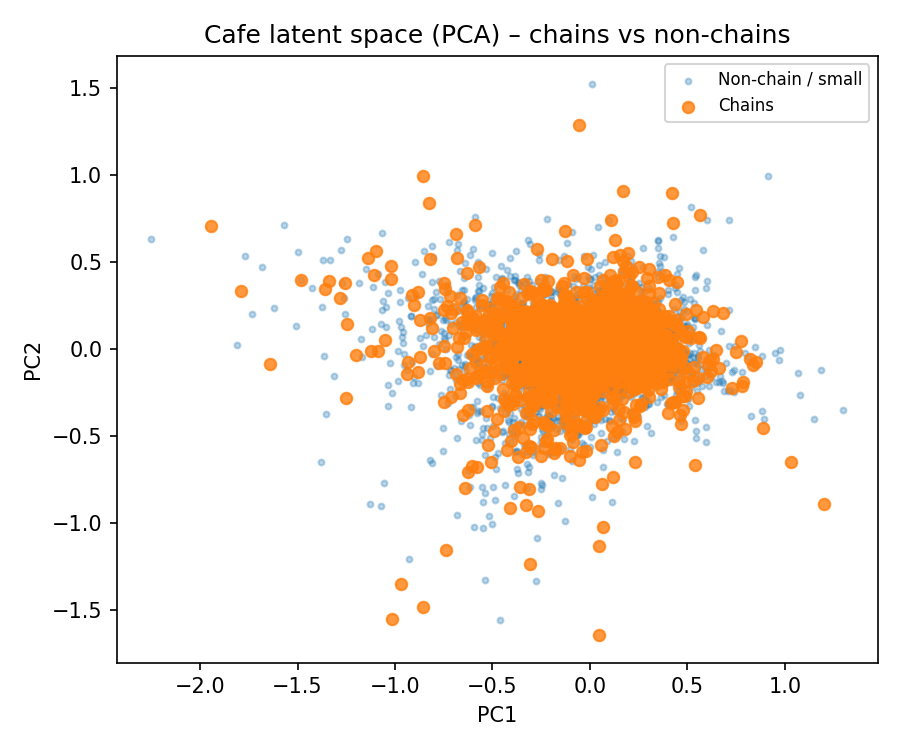
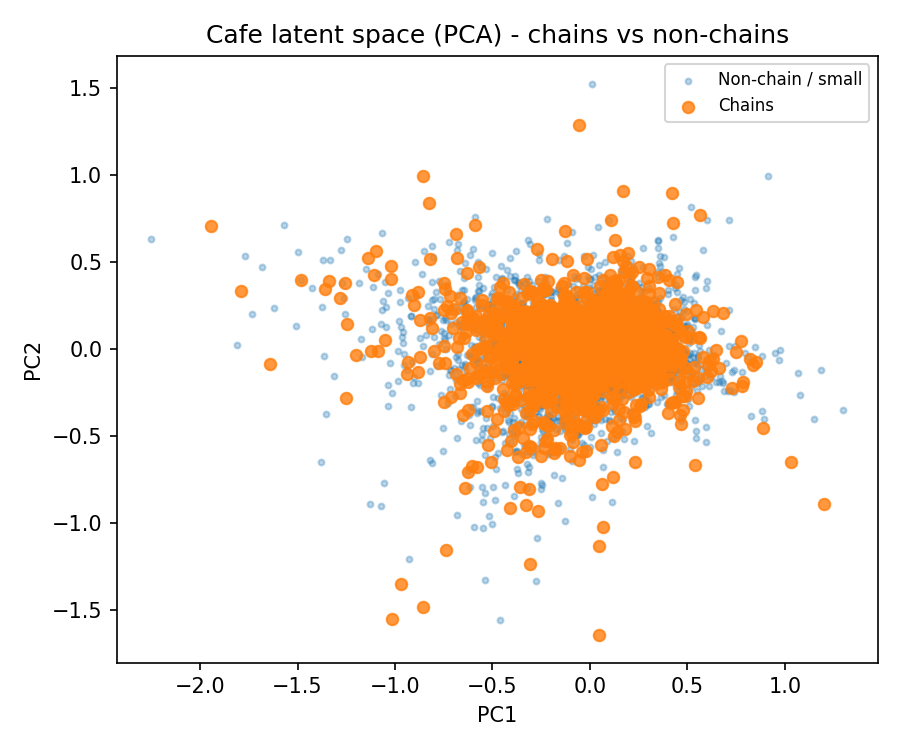
Added Starbucks and Mcdonalds PCA plots

Changed region(s): [[0.2178, 0.0307, 0.56, 0.0613], [0.5911, 0.0307, 0.8711, 0.0613]]

diff --git a/test_latent_torch.py b/test_latent_torch.py
@@ -14,6 +14,8 @@ import numpy as np
 from sklearn.decomposition import PCA
 import matplotlib.pyplot as plt
 
+import seaborn as sns
+
 
 def calculate_mse(y_true, y_pred):
     return torch.mean((y_true - y_pred) ** 2)
@@ -104,7 +106,7 @@ def visualize_cafe_latents_with_pca(model, run_name):
     cafes_vis = cafes.iloc[:n].copy()
 
     # Building metadata DataFrame for plotting
-    cafe_meta = cafes_vis[["gmap_id", "avg_rating", "price"]].copy()
+    cafe_meta = cafes_vis[["gmap_id", "avg_rating", "price", "name"]].copy()
     cafe_meta["avg_rating"] = pd.to_numeric(cafe_meta["avg_rating"], errors="coerce")
 
     def price_to_num(p):
@@ -225,19 +227,106 @@ def visualize_cafe_latents_with_pca(model, run_name):
 
         plt.xlabel("PC1")
         plt.ylabel("PC2")
-        plt.title("Cafe latent space (PCA) – chains vs non-chains")
+        plt.title("Cafe latent space (PCA) - chains vs non-chains")
         plt.legend(loc="best", fontsize=8)
         plt.tight_layout()
         out3 = f"plots/cafe_latent_pca_by_chain_{run_name}.png"
         plt.savefig(out3, dpi=150)
         plt.close()
+        
+    # Plot 4: Starbucks and McDonald's in the same PCA space
+    cafe_meta["name_lower"] = cafe_meta["name"].str.lower()
+
+    is_starbucks = cafe_meta["name_lower"].str.contains("starbucks", na=False)
+    is_mcdonalds = cafe_meta["name_lower"].str.contains("mcdonald", na=False)
+
+    plt.figure(figsize=(6, 5))
+    # All cafes in light gray
+    plt.scatter(
+        cafe_meta["pc1"],
+        cafe_meta["pc2"],
+        c="lightgray",
+        alpha=0.4,
+        s=10,
+        label="All cafes",
+    )
+    # Starbucks in green stars
+    plt.scatter(
+        cafe_meta.loc[is_starbucks, "pc1"],
+        cafe_meta.loc[is_starbucks, "pc2"],
+        c="green",
+        s=40,
+        marker="*",
+        label="Starbucks",
+    )
+    # McDonald's in red X
+    plt.scatter(
+        cafe_meta.loc[is_mcdonalds, "pc1"],
+        cafe_meta.loc[is_mcdonalds, "pc2"],
+        c="red",
+        s=40,
+        marker="x",
+        label="McDonald's",
+    )
+
+    plt.xlabel("PC1")
+    plt.ylabel("PC2")
+    plt.title("Cafe latent space (PCA) with Starbucks & McDonald's")
+    plt.legend()
+    plt.tight_layout()
+    out4 = f"plots/cafe_latent_pca_starbucks_mcdonalds_{run_name}.png"
+    plt.savefig(out4, dpi=150)
+    plt.close()
+    
+    
+    # PCA to 10 dimensions
+    pca10 = PCA(n_components=10, random_state=0)
+    Z10 = pca10.fit_transform(cafe_latents)
+
+    # Storing PC1–PC10
+    for i in range(10):
+        cafe_meta[f"pc{i+1}"] = Z10[:, i]
+
+    # Elbow Plot
+    explained_var = pca10.explained_variance_ratio_
+    plt.figure(figsize=(6, 4))
+    plt.plot(range(1, 11), explained_var, marker="o")
+    plt.xlabel("PCA Dimension")
+    plt.ylabel("Explained Variance Ratio")
+    plt.title("Elbow Plot of Top-10 PCA Dimensions")
+    plt.tight_layout()
+    out5 = f"plots/cafe_latent_pca_elbow_{run_name}.png"
+    plt.savefig(out5, dpi=150)
+    plt.close()
+
+    # Starbucks vs McDonald's Pairplot (Top-10 PCs)
+    sb_mask = is_starbucks | is_mcdonalds
+    sb_df = cafe_meta.loc[sb_mask, [f"pc{i+1}" for i in range(10)]].copy()
+
+    sb_df["brand"] = np.where(
+        is_starbucks.loc[sb_mask], "Starbucks", "McDonald's"
+    )
+
+    sns.pairplot(
+        sb_df,
+        hue="brand",
+        corner=True,
+        plot_kws={"alpha": 0.7, "s": 18},
+        diag_kws={"alpha": 0.7},
+    )
+
+    out6 = f"plots/cafe_latent_pca_starbucks_vs_mcdonalds_pairplot_{run_name}.png"
+    plt.savefig(out6, dpi=150)
+    plt.close()
 
     print(f"[{run_name}] Saved PCA plots to:")
     print(f"  {out1}")
     print(f"  {out2}")
-    if out3 is not None:
-        print(f"  {out3}")
-
+    print(f"  {out3}")
+    print(f"  {out4}")
+    print(f"  {out5}")
+    print(f"  {out6}")
+    
 
 if __name__ == "__main__":
     subset = True
